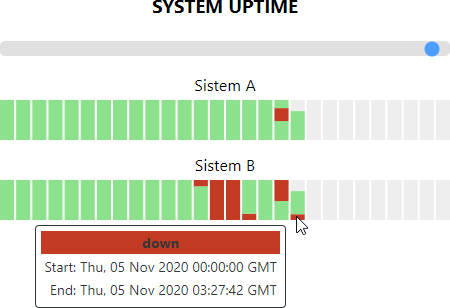
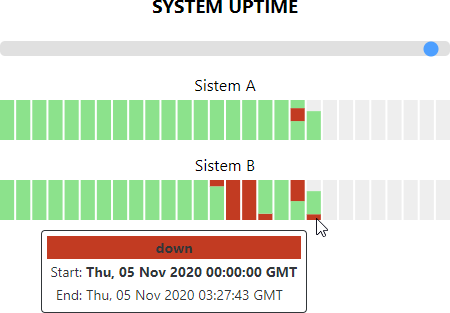
one second gap removed

diff --git a/algorithms.js b/algorithms.js
@@ -46,7 +46,7 @@ algorithms.rangesIntersection = function (main, a) {
     }
 
     return intersections.length > 0 ? intersections : null;
-}; 
+};
 
 
 algorithms.rangesIntersectionStatus = function (main, ranges) {
@@ -74,10 +74,10 @@ algorithms.rangesIntersectionStatus = function (main, ranges) {
     let sequence = [];
     sequence.push(main[0]);
     for (let i = 0; i < intersections.length; i++) {
-        sequence.push(intersections[i][0] - 1);
+        sequence.push(intersections[i][0]); // - 1
         sequence.push(intersections[i][0]);
         sequence.push(intersections[i][1]);
-        sequence.push(intersections[i][1] + 1);
+        sequence.push(intersections[i][1]); // + 1
     }
     sequence.push(main[1]);
 

diff --git a/graph-tools.js b/graph-tools.js
@@ -114,7 +114,7 @@ graphTools.cUptimeBar = function (parent, width, height, gap, sistemData, toolti
 graphTools.cUptimeBar.prototype.getDayGraphData = function (dayStartTime) {
 
     let dayStart = dayStartTime;
-    let dayEnd = dayStart + 86399; //daySeconds = 60 * 60 * 24 - 1 = 86399 (second before midnight)
+    let dayEnd = dayStart + 86400; //daySeconds = 60 * 60 * 24 = 86400
 
     let dayRangesStatus = algorithms.rangesIntersectionStatus([dayStart, dayEnd], this.ranges);
 

diff --git a/tooltip.js b/tooltip.js
@@ -39,6 +39,7 @@ tooltip.cInstance = function () {
     cellStartName.style.textAlign = "right"
     this.ttStart = rowStart.insertCell()
     this.ttStart.innerHTML = "123"
+    this.ttStart.style.fontWeight = "bold"
 
     var rowEnd = table.insertRow()
     var cellEndName = rowEnd.insertCell()
